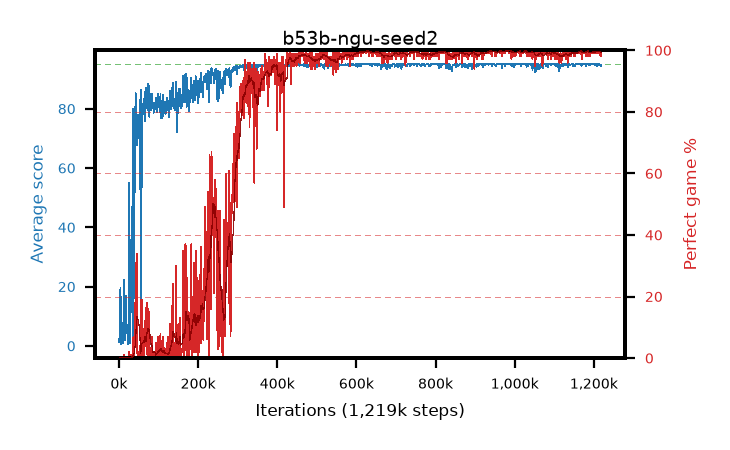
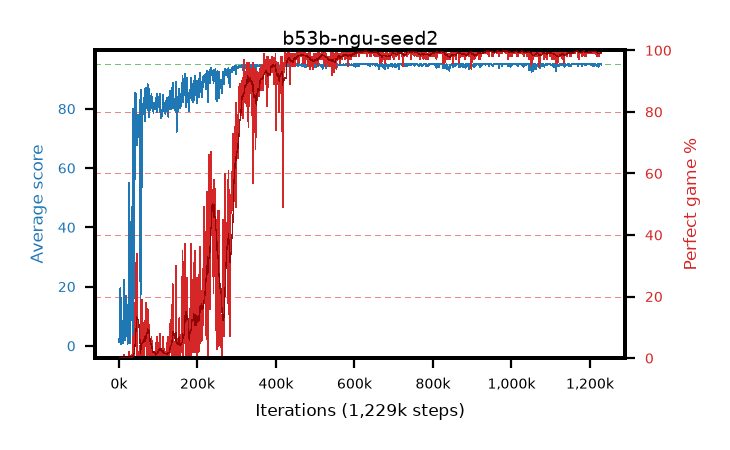
live pictures of 4 arm(s)

diff --git a/results/b53b-ngu-seed2/b53b-ngu-seed2.md b/results/b53b-ngu-seed2/b53b-ngu-seed2.md
@@ -1,6 +1,6 @@
 # b53b-ngu-seed2
 
-step **1,219,000** · 1219 evals · trailing **94.88** · peak **94.96** @1,028,000 · sef **74.4** · best30 **99.8** @983,000
+step **1,229,000** · 1229 evals · trailing **94.83** · peak **94.96** @1,028,000 · sef **74.6** · best30 **99.8** @983,000
 
 ## Config
 
@@ -80,15 +80,15 @@ step **1,219,000** · 1219 evals · trailing **94.88** · peak **94.96** @1,028,
 | 2000 | 6.04 | 3.73 | 0.0 | 19.0 | 3.28 | 0.0 | 0.4 |
 | 3000 | 18.06 | 8.5 | 1.0 | 40.0 | 15.298 | 0.0 | 0.4 |
 | ... | ... | ... | ... | ... | ... | ... | ... |
-| 1208000 | 95.0 | 94.93 | 95.0 | 95.0 | 193.721 | 100.0 | 0.4 |
-| 1209000 | 94.23 | 94.9 | 18.0 | 95.0 | 191.91 | 99.0 | 0.4 |
-| 1210000 | 95.0 | 94.92 | 95.0 | 95.0 | 193.68 | 100.0 | 0.4 |
-| 1211000 | 95.0 | 94.92 | 95.0 | 95.0 | 193.717 | 100.0 | 0.4 |
-| 1212000 | 94.89 | 94.92 | 84.0 | 95.0 | 192.558 | 99.0 | 0.4 |
-| 1213000 | 95.0 | 94.92 | 95.0 | 95.0 | 193.727 | 100.0 | 0.4 |
-| 1214000 | 95.0 | 94.92 | 95.0 | 95.0 | 193.708 | 100.0 | 0.4 |
-| 1215000 | 94.95 | 94.92 | 90.0 | 95.0 | 192.615 | 99.0 | 0.4 |
-| 1216000 | 94.82 | 94.91 | 77.0 | 95.0 | 192.501 | 99.0 | 0.4 |
-| 1217000 | 94.6 | 94.91 | 65.0 | 95.0 | 191.298 | 98.0 | 0.4 |
 | 1218000 | 94.48 | 94.89 | 54.0 | 95.0 | 191.156 | 98.0 | 0.4 |
 | 1219000 | 94.71 | 94.88 | 66.0 | 95.0 | 192.403 | 99.0 | 0.4 |
+| 1220000 | 94.97 | 94.88 | 92.0 | 95.0 | 192.634 | 99.0 | 0.4 |
+| 1221000 | 94.24 | 94.86 | 19.0 | 95.0 | 191.908 | 99.0 | 0.4 |
+| 1222000 | 94.16 | 94.83 | 16.0 | 95.0 | 190.8 | 98.0 | 0.4 |
+| 1223000 | 95.0 | 94.83 | 95.0 | 95.0 | 193.707 | 100.0 | 0.4 |
+| 1224000 | 95.0 | 94.83 | 95.0 | 95.0 | 193.716 | 100.0 | 0.4 |
+| 1225000 | 95.0 | 94.84 | 95.0 | 95.0 | 193.715 | 100.0 | 0.4 |
+| 1226000 | 94.97 | 94.83 | 92.0 | 95.0 | 192.694 | 99.0 | 0.4 |
+| 1227000 | 95.0 | 94.83 | 95.0 | 95.0 | 193.706 | 100.0 | 0.4 |
+| 1228000 | 95.0 | 94.84 | 95.0 | 95.0 | 193.712 | 100.0 | 0.4 |
+| 1229000 | 94.9 | 94.83 | 85.0 | 95.0 | 192.609 | 99.0 | 0.4 |
